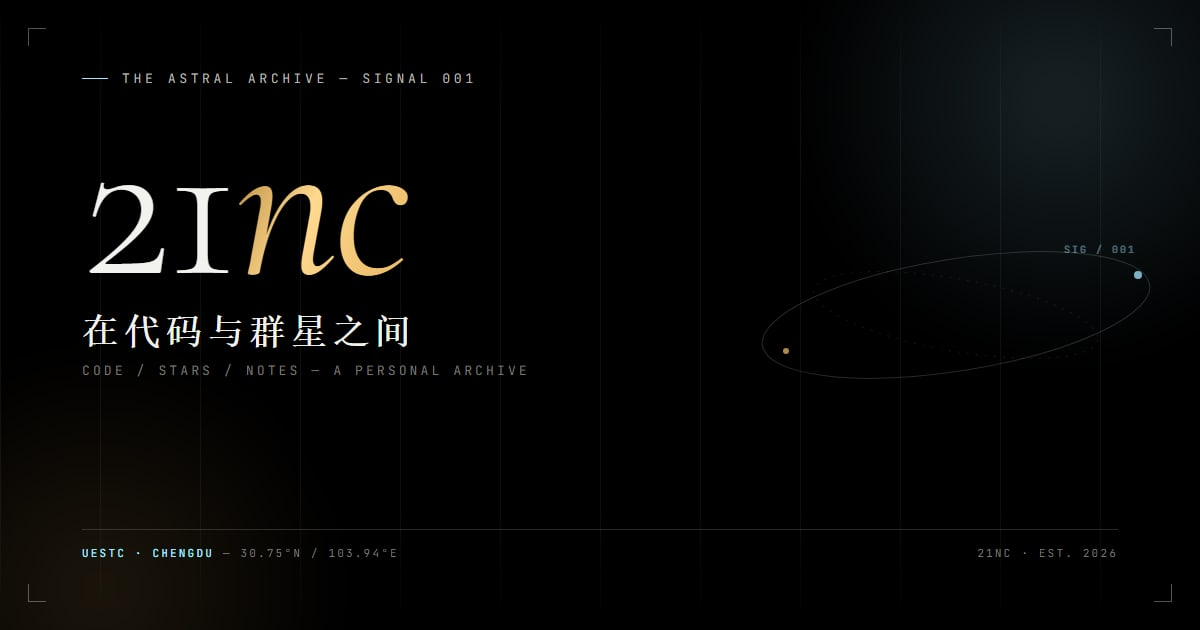
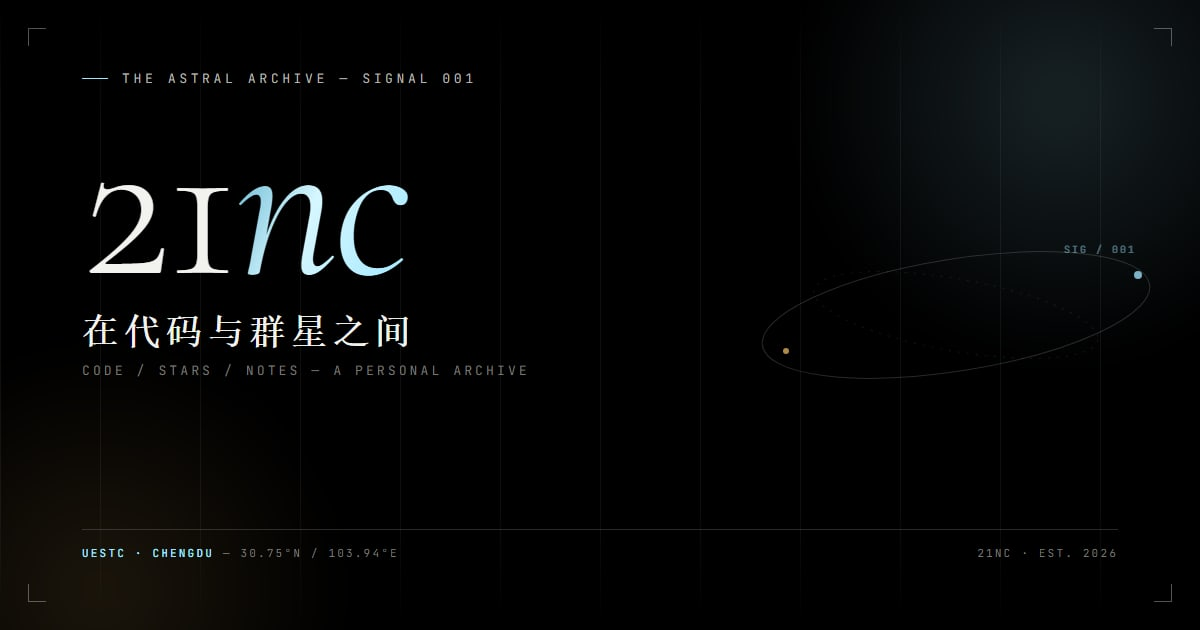
首页统一纯黑底，nc 改冰蓝
- 首屏 21nc 的 nc 从金色渐变改为冰蓝渐变
- 首页去掉黑白交替：跑马灯改为同底色 + 发丝线，关于区不再反白，从 hero 到 footer 保持单一底色
- 首页文章行 hover 从整行反白改为轻微提亮，避免黑/白闪动
- 浅色主题下首页同样保持单一纯白底
- OG 图的 nc 同步改冰蓝；README 同步

Changed region(s): [[0.185, 0.2714, 0.3392, 0.4524]]

diff --git a/src/styles/home.css b/src/styles/home.css
@@ -59,8 +59,8 @@
     border-color 0.35s var(--ease-out);
 }
 .entry:hover {
-  background: var(--ink);
-  color: var(--bg);
+  background: var(--surface-2);
+  color: var(--ink);
   text-decoration: none;
 }
 .entry:last-child {
@@ -74,7 +74,7 @@
   transition: color 0.3s var(--ease-out);
 }
 .entry:hover .entry__no {
-  color: var(--gold-on-invert);
+  color: var(--gold);
 }
 
 .entry__date {
@@ -84,7 +84,7 @@
   transition: color 0.3s var(--ease-out);
 }
 .entry:hover .entry__date {
-  color: var(--invert-ink-2);
+  color: var(--ink-2);
 }
 
 .entry__title {
@@ -106,7 +106,7 @@
   transition: color 0.3s var(--ease-out);
 }
 .entry:hover .entry__tags {
-  color: var(--invert-ink-2);
+  color: var(--ink-2);
 }
 
 .entry__arrow {
@@ -120,7 +120,7 @@
     transform 0.35s var(--ease-out);
 }
 .entry:hover .entry__arrow {
-  color: var(--ice-on-invert);
+  color: var(--ice);
   transform: translate(3px, -3px);
 }
 
@@ -295,12 +295,12 @@
   font-weight: 400;
   line-height: 1.42;
   letter-spacing: -0.005em;
-  color: var(--invert-fg);
+  color: var(--ink);
   text-wrap: balance;
 }
 .manifesto__lead em {
   font-style: normal;
-  color: var(--gold-on-invert);
+  color: var(--gold);
   white-space: nowrap;
 }
 .manifesto__lead .star-accent {
@@ -308,12 +308,12 @@
   font-size: 0.5em;
   vertical-align: 0.5em;
   margin-inline: 0.15em;
-  color: var(--ice-on-invert);
+  color: var(--ice);
 }
 .manifesto__body {
   margin-top: clamp(1.2rem, 2.6vw, 1.8rem);
   max-width: 36rem;
-  color: var(--invert-ink-2);
+  color: var(--ink-2);
   font-size: 0.94rem;
   line-height: 1.95;
   text-wrap: pretty;
@@ -322,27 +322,27 @@
   margin-top: 1rem;
 }
 .manifesto__body a {
-  color: var(--gold-on-invert);
+  color: var(--gold);
   text-decoration: underline;
   text-decoration-thickness: 1px;
   text-underline-offset: 0.22em;
   transition: color 0.25s var(--ease-out);
 }
 .manifesto__body a:hover {
-  color: var(--ice-on-invert);
+  color: var(--ice);
 }
 
 .manifesto__log {
   display: flex;
   flex-direction: column;
-  border-top: 1px solid var(--invert-line);
+  border-top: 1px solid var(--line);
 }
 .log-row {
   display: grid;
   grid-template-columns: 5.2rem minmax(0, 1fr);
   gap: 1rem;
   padding: 0.8rem 0;
-  border-bottom: 1px solid var(--invert-line-soft);
+  border-bottom: 1px solid var(--line-soft);
   font-size: 0.84rem;
 }
 .log-row dt {
@@ -350,16 +350,16 @@
   font-size: 0.56rem;
   letter-spacing: 0.18em;
   text-transform: uppercase;
-  color: var(--invert-ink-3);
+  color: var(--ink-3);
   padding-top: 0.22rem;
 }
 .log-row dd {
   margin: 0;
-  color: var(--invert-fg);
+  color: var(--ink);
   line-height: 1.65;
 }
 .log-row dd .muted {
-  color: var(--invert-ink-3);
+  color: var(--ink-3);
 }
 .log-row dd .live-dot {
   display: inline-block;
@@ -367,8 +367,8 @@
   height: 6px;
   margin-right: 0.45rem;
   border-radius: 50%;
-  background: var(--gold-on-invert);
-  box-shadow: 0 0 10px var(--gold-on-invert);
+  background: var(--gold);
+  box-shadow: 0 0 10px var(--gold);
   animation: live-pulse 2.4s ease-in-out infinite;
   vertical-align: 0.05em;
 }
@@ -389,7 +389,7 @@
   gap: 1rem;
   margin-top: clamp(2rem, 4vw, 3rem);
   padding-top: clamp(1.4rem, 2.6vw, 2rem);
-  border-top: 1px solid var(--invert-line);
+  border-top: 1px solid var(--line);
 }
 .stat {
   display: flex;
@@ -402,7 +402,7 @@
   font-weight: 400;
   line-height: 1;
   letter-spacing: -0.02em;
-  color: var(--invert-fg);
+  color: var(--ink);
   font-variant-numeric: lining-nums tabular-nums;
   font-feature-settings: 'lnum' 1, 'tnum' 1;
 }
@@ -410,7 +410,7 @@
   font-size: 0.28em;
   font-family: var(--font-mono);
   letter-spacing: 0.1em;
-  color: var(--gold-on-invert);
+  color: var(--gold);
   vertical-align: super;
   margin-left: 0.2em;
 }
@@ -419,7 +419,7 @@
   font-size: 0.56rem;
   letter-spacing: 0.2em;
   text-transform: uppercase;
-  color: var(--invert-ink-3);
+  color: var(--ink-3);
 }
 
 /* ---------------------------------------------------------------

diff --git a/src/styles/site.css b/src/styles/site.css
@@ -550,9 +550,9 @@ body.menu-open .mobile-menu {
 .marquee {
   position: relative;
   overflow: hidden;
-  background: var(--invert-bg);
-  color: var(--invert-fg);
-  border-block: 1px solid var(--invert-bg);
+  background: var(--bg);
+  color: var(--ink);
+  border-block: 1px solid var(--line-soft);
 }
 .marquee__track {
   display: flex;
@@ -577,7 +577,7 @@ body.menu-open .mobile-menu {
   font-weight: 500;
   letter-spacing: 0.26em;
   text-transform: uppercase;
-  color: var(--invert-fg);
+  color: var(--ink-2);
   white-space: nowrap;
 }
 .marquee__item strong {
@@ -586,15 +586,15 @@ body.menu-open .mobile-menu {
   font-weight: 500;
   letter-spacing: 0.01em;
   text-transform: none;
-  color: var(--invert-fg);
+  color: var(--ink);
 }
 .marquee__item .spark {
   font-size: 0.76rem;
-  color: var(--gold-on-invert);
-  opacity: 0.95;
+  color: var(--gold);
+  opacity: 0.9;
 }
 .marquee__item:nth-child(3n) .spark {
-  color: var(--ice-on-invert);
+  color: var(--ice);
 }
 @keyframes marquee-scroll {
   to {

diff --git a/src/styles/hero.css b/src/styles/hero.css
@@ -208,7 +208,7 @@
   font-weight: 400;
   padding-right: 0.04em;
   margin-left: 0.01em;
-  background: linear-gradient(115deg, var(--gold-deep) 0%, var(--gold-bright) 46%, var(--gold) 100%);
+  background: linear-gradient(115deg, var(--ice-deep) 0%, var(--ice-bright) 46%, var(--ice) 100%);
   -webkit-background-clip: text;
   background-clip: text;
   color: transparent;
